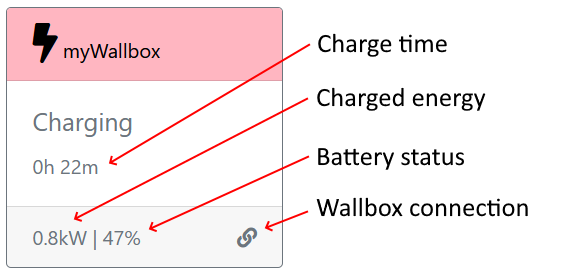
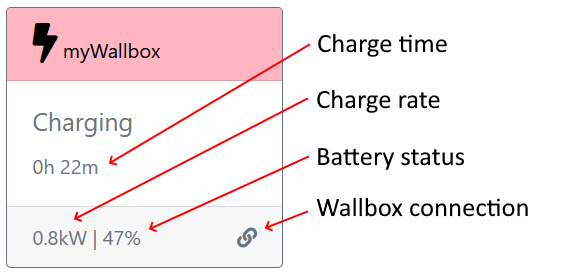
Different MsgLog | Changes in MeterValues | V1.0.1

Changed region(s): [[0.5406, 0.32, 0.871, 0.4073]]

diff --git a/OCPP.Core.Server/ControllerOCPP16.MeterValues.cs b/OCPP.Core.Server/ControllerOCPP16.MeterValues.cs
@@ -62,6 +62,7 @@ namespace OCPP.Core.Server
             MeterValuesResponse meterValuesResponse = new MeterValuesResponse();
 
             int? connectorId = null;
+            string msgMeterValue = string.Empty;
 
             try
             {
@@ -75,7 +76,7 @@ namespace OCPP.Core.Server
                 {
                     // Known charge station => process meter values
                     double currentChargeKW = -1;
-                    double chargedAmountKWH = -1;
+                    double meterKWH = -1;
                     double stateOfCharge = -1;
                     foreach (MeterValue meterValue in meterValueRequest.MeterValue)
                     {
@@ -119,30 +120,30 @@ namespace OCPP.Core.Server
                                     sampleValue.Measurand == null)
                             {
                                 // charged amount of energy
-                                if (double.TryParse(sampleValue.Value, NumberStyles.Float, CultureInfo.InvariantCulture, out chargedAmountKWH))
+                                if (double.TryParse(sampleValue.Value, NumberStyles.Float, CultureInfo.InvariantCulture, out meterKWH))
                                 {
                                     if (sampleValue.Unit == SampledValueUnit.Wh ||
                                         sampleValue.Unit == SampledValueUnit.Varh ||
                                         sampleValue.Unit == null)
                                     {
-                                        Logger.LogTrace("MeterValues => Charged: '{0:0.0}' Wh", chargedAmountKWH);
+                                        Logger.LogTrace("MeterValues => Value: '{0:0.0}' Wh", meterKWH);
                                         // convert Wh => kWh
-                                        chargedAmountKWH = chargedAmountKWH / 1000;
+                                        meterKWH = meterKWH / 1000;
                                     }
                                     else if (sampleValue.Unit == SampledValueUnit.KWh ||
                                             sampleValue.Unit == SampledValueUnit.Kvarh)
                                     {
                                         // already kWh => OK
-                                        Logger.LogTrace("MeterValues => Charged: '{0:0.0}' kWh", chargedAmountKWH);
+                                        Logger.LogTrace("MeterValues => Value: '{0:0.0}' kWh", meterKWH);
                                     }
                                     else
                                     {
-                                        Logger.LogWarning("MeterValues => Charged: unexpected unit: '{0}' (Value={1})", sampleValue.Unit, sampleValue.Value);
+                                        Logger.LogWarning("MeterValues => Value: unexpected unit: '{0}' (Value={1})", sampleValue.Unit, sampleValue.Value);
                                     }
                                 }
                                 else
                                 {
-                                    Logger.LogError("MeterValues => invalid value '{0}' (Unit={1})", sampleValue.Value, sampleValue.Unit);
+                                    Logger.LogError("MeterValues => Value: invalid value '{0}' (Unit={1})", sampleValue.Value, sampleValue.Unit);
                                 }
                             }
                             else if (sampleValue.Measurand == SampledValueMeasurand.SoC)
@@ -162,16 +163,16 @@ namespace OCPP.Core.Server
 
                     // write charging/meter data in chargepoint status
                     ChargingData chargingData = null;
-                    if (currentChargeKW >= 0 || chargedAmountKWH >= 0 || stateOfCharge >= 0)
+                    if (currentChargeKW >= 0 || meterKWH >= 0 || stateOfCharge >= 0)
                     {
                         chargingData = new ChargingData();
                         if (currentChargeKW >= 0) chargingData.ChargeRateKW = currentChargeKW;
-                        if (chargedAmountKWH >= 0) chargingData.ChargedEnergyKWH = chargedAmountKWH;
+                        if (meterKWH >= 0) chargingData.MeterKWH = meterKWH;
                         if (stateOfCharge >= 0) chargingData.SoC = stateOfCharge;
                     }
                     if (connectorId > 1)
                     {
-                        // second connector (odr higher!?)
+                        // second connector (or higher!?)
                         ChargePointStatus.ChargingDataEVSE2 = chargingData;
                     }
                     else

diff --git a/OCPP.Core.Server/ControllerOCPP20.MeterValues.cs b/OCPP.Core.Server/ControllerOCPP20.MeterValues.cs
@@ -52,7 +52,7 @@ namespace OCPP.Core.Server
                 {
                     // Known charge station => process meter values
                     double currentChargeKW = -1;
-                    double chargedAmountKWH = -1;
+                    double meterKWH = -1;
                     double stateOfCharge = -1;
                     foreach (MeterValueType meterValue in meterValueRequest.MeterValue)
                     {
@@ -90,32 +90,32 @@ namespace OCPP.Core.Server
                             else if (sampleValue.Measurand == MeasurandEnumType.Energy_Active_Import_Register)
                             {
                                 // charged amount of energy
-                                chargedAmountKWH = sampleValue.Value;
+                                meterKWH = sampleValue.Value;
                                 if (sampleValue.UnitOfMeasure?.Unit == "Wh" ||
                                     sampleValue.UnitOfMeasure?.Unit == "VAh" ||
                                     sampleValue.UnitOfMeasure?.Unit == "varh" ||
                                     (sampleValue.UnitOfMeasure == null || sampleValue.UnitOfMeasure.Unit == null))
                                 {
-                                    Logger.LogTrace("MeterValues => Charged: '{0:0.0}' Wh", chargedAmountKWH);
+                                    Logger.LogTrace("MeterValues => Value: '{0:0.0}' Wh", meterKWH);
                                     // convert Wh => kWh
-                                    chargedAmountKWH = chargedAmountKWH / 1000;
+                                    meterKWH = meterKWH / 1000;
                                 }
                                 else if (sampleValue.UnitOfMeasure?.Unit == "kWh" ||
                                         sampleValue.UnitOfMeasure?.Unit == "kVAh" ||
                                         sampleValue.UnitOfMeasure?.Unit == "kvarh")
                                 {
                                     // already kWh => OK
-                                    Logger.LogTrace("MeterValues => Charged: '{0:0.0}' kWh", chargedAmountKWH);
+                                    Logger.LogTrace("MeterValues => Value: '{0:0.0}' kWh", meterKWH);
                                 }
                                 else
                                 {
-                                    Logger.LogWarning("MeterValues => Charged: unexpected unit: '{0}' (Value={1})", sampleValue.UnitOfMeasure?.Unit, sampleValue.Value);
+                                    Logger.LogWarning("MeterValues => Value: unexpected unit: '{0}' (Value={1})", sampleValue.UnitOfMeasure?.Unit, sampleValue.Value);
                                 }
                             }
                             else if (sampleValue.Measurand == MeasurandEnumType.SoC)
                             {
                                 // state of charge (battery status)
-                                stateOfCharge = chargedAmountKWH = sampleValue.Value;
+                                stateOfCharge = sampleValue.Value;
                                 Logger.LogTrace("MeterValues => SoC: '{0:0.0}'%", stateOfCharge);
                             }
                         }
@@ -123,11 +123,11 @@ namespace OCPP.Core.Server
 
                     // write charging/meter data in chargepoint status
                     ChargingData chargingData = null;
-                    if (currentChargeKW >= 0 || chargedAmountKWH >= 0 || stateOfCharge >= 0)
+                    if (currentChargeKW >= 0 || meterKWH >= 0 || stateOfCharge >= 0)
                     {
                         chargingData = new ChargingData();
                         if (currentChargeKW >= 0) chargingData.ChargeRateKW = currentChargeKW;
-                        if (chargedAmountKWH >= 0) chargingData.ChargedEnergyKWH = chargedAmountKWH;
+                        if (meterKWH >= 0) chargingData.MeterKWH = meterKWH;
                         if (stateOfCharge >= 0) chargingData.SoC = stateOfCharge;
                     }
                     if (connectorId > 1)

diff --git a/OCPP.Core.Server/ControllerOCPP16.Authorize.cs b/OCPP.Core.Server/ControllerOCPP16.Authorize.cs
@@ -35,12 +35,13 @@ namespace OCPP.Core.Server
             string errorCode = null;
             AuthorizeResponse authorizeResponse = new AuthorizeResponse();
 
+            string idTag = null;
             try
             {
                 Logger.LogTrace("Processing authorize request...");
                 AuthorizeRequest authorizeRequest = JsonConvert.DeserializeObject<AuthorizeRequest>(msgIn.JsonPayload);
                 Logger.LogTrace("Authorize => Message deserialized");
-                string idTag = authorizeRequest.IdTag;
+                idTag = authorizeRequest.IdTag;
 
                 authorizeResponse.IdTagInfo.ParentIdTag = string.Empty;
                 authorizeResponse.IdTagInfo.ExpiryDate = DateTimeOffset.UtcNow.AddMinutes(5);   // default: 5 minutes
@@ -92,7 +93,7 @@ namespace OCPP.Core.Server
                 errorCode = ErrorCodes.FormationViolation;
             }
 
-            WriteMessageLog(ChargePointStatus?.Id, null,msgIn.Action, authorizeResponse.IdTagInfo?.Status.ToString(), errorCode);
+            WriteMessageLog(ChargePointStatus?.Id, null,msgIn.Action, $"'{idTag}'=>{authorizeResponse.IdTagInfo?.Status}", errorCode);
             return errorCode;
         }
     }

diff --git a/OCPP.Core.Server/ControllerOCPP20.Authorize.cs b/OCPP.Core.Server/ControllerOCPP20.Authorize.cs
@@ -35,12 +35,13 @@ namespace OCPP.Core.Server
             string errorCode = null;
             AuthorizeResponse authorizeResponse = new AuthorizeResponse();
 
+            string idTag = null;
             try
             {
                 Logger.LogTrace("Processing authorize request...");
                 AuthorizeRequest authorizeRequest = JsonConvert.DeserializeObject<AuthorizeRequest>(msgIn.JsonPayload);
                 Logger.LogTrace("Authorize => Message deserialized");
-                string idTag = authorizeRequest.IdToken?.IdToken;
+                idTag = authorizeRequest.IdToken?.IdToken;
 
                 authorizeResponse.CustomData = new CustomDataType();
                 authorizeResponse.CustomData.VendorId = VendorId;
@@ -101,7 +102,7 @@ namespace OCPP.Core.Server
                 errorCode = ErrorCodes.FormationViolation;
             }
 
-            WriteMessageLog(ChargePointStatus?.Id, null,msgIn.Action, authorizeResponse.IdTokenInfo?.Status.ToString(), errorCode);
+            WriteMessageLog(ChargePointStatus?.Id, null, msgIn.Action, $"'{idTag}'=>{authorizeResponse.IdTokenInfo?.Status}", errorCode);
             return errorCode;
         }
     }

diff --git a/OCPP.Core.Server/ControllerOCPP16.cs b/OCPP.Core.Server/ControllerOCPP16.cs
@@ -157,10 +157,16 @@ namespace OCPP.Core.Server
         {
             try
             {
-                bool dbMessageLog = Configuration.GetValue<bool>("DbMessageLog", false);
-                if (dbMessageLog)
+                int dbMessageLog = Configuration.GetValue<int>("DbMessageLog", 0);
+                if (dbMessageLog > 0 && !string.IsNullOrWhiteSpace(chargePointId))
                 {
-                    if (!string.IsNullOrWhiteSpace(chargePointId))
+                    bool doLog = (dbMessageLog > 1 ||
+                                    (message != "BootNotification" &&
+                                     message != "Heartbeat" &&
+                                     message != "DataTransfer" &&
+                                     message != "StatusNotification"));
+
+                    if (doLog)
                     {
                         using (OCPPCoreContext dbContext = new OCPPCoreContext(Configuration))
                         {

diff --git a/OCPP.Core.Server/ControllerOCPP20.cs b/OCPP.Core.Server/ControllerOCPP20.cs
@@ -181,10 +181,16 @@ namespace OCPP.Core.Server
         {
             try
             {
-                bool dbMessageLog = Configuration.GetValue<bool>("DbMessageLog", false);
-                if (dbMessageLog)
+                int dbMessageLog = Configuration.GetValue<int>("DbMessageLog", 0);
+                if (dbMessageLog > 0 && !string.IsNullOrWhiteSpace(chargePointId))
                 {
-                    if (!string.IsNullOrWhiteSpace(chargePointId))
+                    bool doLog = (dbMessageLog > 1 ||
+                                    (message != "BootNotification" &&
+                                     message != "Heartbeat" &&
+                                     message != "DataTransfer" &&
+                                     message != "StatusNotification"));
+
+                    if (doLog)
                     {
                         using (OCPPCoreContext dbContext = new OCPPCoreContext(Configuration))
                         {

diff --git a/OCPP.Core.Management/Models/ChargePointStatus.cs b/OCPP.Core.Management/Models/ChargePointStatus.cs
@@ -86,9 +86,9 @@ namespace OCPP.Core.Management.Models
         public double? ChargeRateKW { get; set; }
 
         /// <summary>
-        /// Charged energy in kWh
+        /// Current meter value in kWh
         /// </summary>
-        public double? ChargedEnergyKWH { get; set; }
+        public double? MeterKWH { get; set; }
 
         /// <summary>
         /// StateOfCharges in percent

diff --git a/OCPP.Core.Server/ChargePointStatus.cs b/OCPP.Core.Server/ChargePointStatus.cs
@@ -95,9 +95,9 @@ namespace OCPP.Core.Server
         public double? ChargeRateKW { get; set; }
 
         /// <summary>
-        /// Charged energy in kWh
+        /// Current meter value in kWh
         /// </summary>
-        public double? ChargedEnergyKWH { get; set; }
+        public double? MeterKWH { get; set; }
 
         /// <summary>
         /// StateOfCharges in percent
